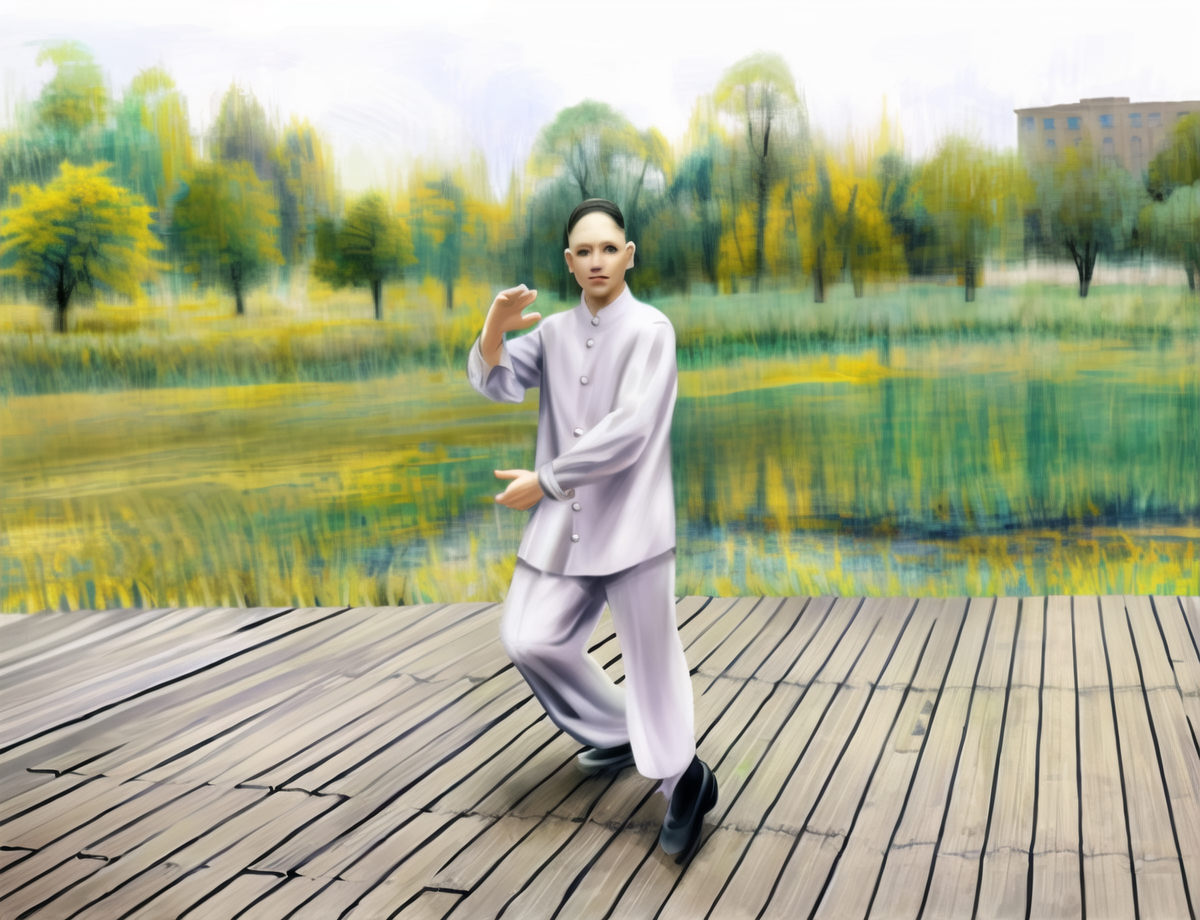
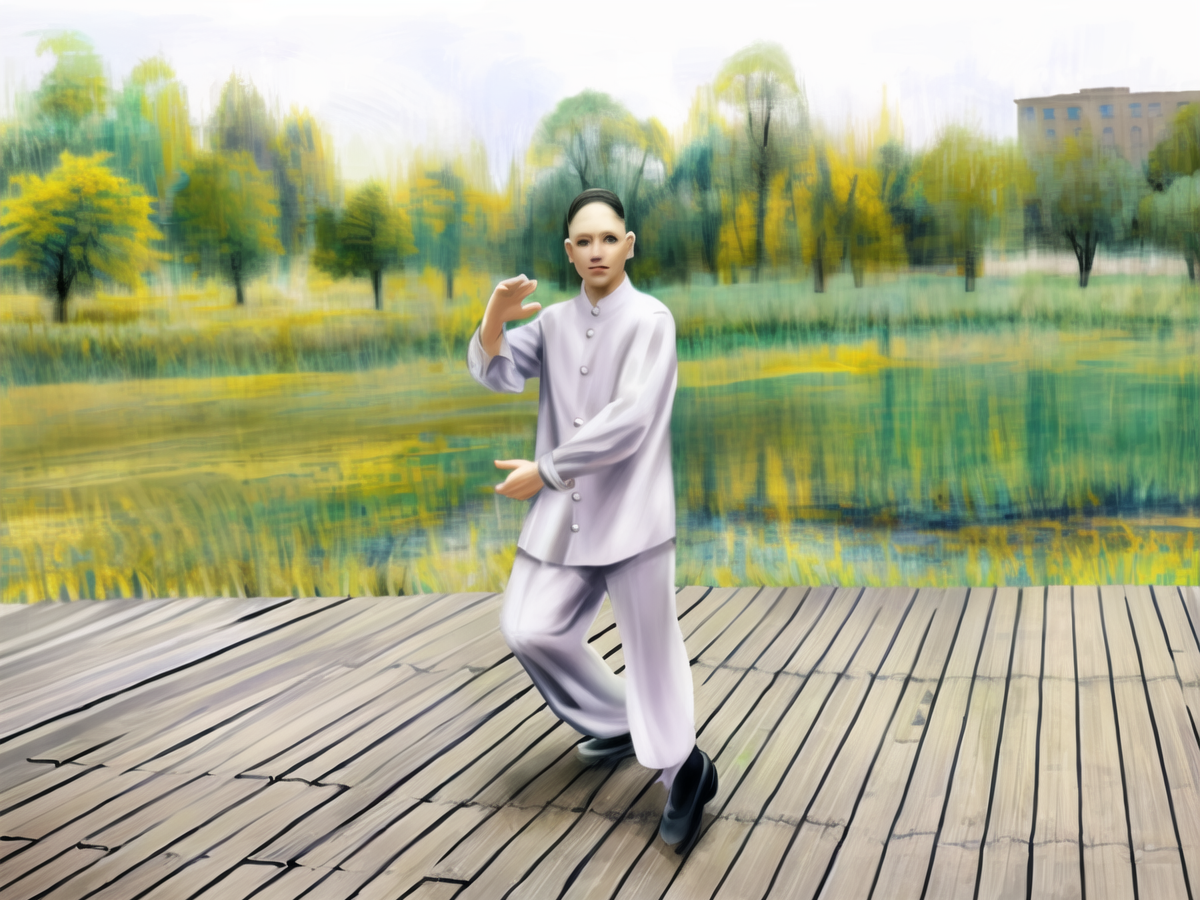
修改代码

diff --git a/index.html b/index.html
@@ -442,18 +442,18 @@
                 <img src="img/1.png" style="width: 100px; height: 100px;">
               </div>
               <div class="layui-col-md3">
-                <img src="img/cat1.jpg" style="width: 100%; height: 260px;">
+                <img src="img/白鹤亮翅_虚步分手.png" style="width: 100%; height: 260px;">
               </div>
               <div class="layui-col-md8">
                 <div class="layui-card" style="height: 260px;">
                   <div class="layui-card-body" style="padding: 30px;">
-                    <div style="height: 100px;"><h2>图中所示的动作是什么？上</h2></div>
+                    <div style="height: 100px;"><h2>图中练习者左脚稍向前移，前脚掌着地，成左虚步；两手随转体慢慢向右上左下分开，右手上提停于右额前，手心向左后方，左手按至左胯前，手心向下，指尖向前；上体转正，眼平视前方。<br>图中所示的动作是什么招式？</h2></div>
                     <div class="layui-form">
                       <div class="layui-form-item">
-                        <input type="radio" name="AAA" value="1" lay-filter="demo-radio-filter"  title="大威天龙">
-                        <input type="radio" name="AAA" value="0" lay-filter="demo-radio-filter" title="大威天龙"> 
-                        <input type="radio" name="AAA" value="0" lay-filter="demo-radio-filter" title="大威天龙"> 
-                        <input type="radio" name="AAA" value="0" lay-filter="demo-radio-filter" title="大威天龙"> 
+                        <input type="radio" name="AAA" value="0" lay-filter="demo-radio-filter"  title="起势">
+                        <input type="radio" name="AAA" value="1" lay-filter="demo-radio-filter" title="白鹤亮翅"> 
+                        <input type="radio" name="AAA" value="0" lay-filter="demo-radio-filter" title="高探马"> 
+                        <input type="radio" name="AAA" value="0" lay-filter="demo-radio-filter" title="单鞭"> 
                       </div>
                       <div class="layui-form-item">
                         <button class="layui-btn" lay-submit lay-filter="demo-radio-submit">确认</button>
@@ -469,18 +469,18 @@
                 <img src="img/2.png" style="width: 100px; height: 100px;">
               </div>
               <div class="layui-col-md3">
-                <img src="img/cat1.jpg" style="width: 100%; height: 260px;">
+                <img src="img/倒卷肱_退步错手.png" style="width: 100%; height: 260px;">
               </div>
               <div class="layui-col-md8">
                 <div class="layui-card" style="height: 260px;">
                   <div class="layui-card-body" style="padding: 30px;">
-                    <div style="height: 100px;"><h2>图中所示的动作是什么？上</h2></div>
+                    <div style="height: 100px;"><h2>图中练习者右脚向后撤一步，脚掌先着地，全脚踏实；同时左手经耳侧向前推出，右手收至左肋旁。<br>图中所示的动作是什么招式？</h2></div>
                     <div class="layui-form">
                       <div class="layui-form-item">
-                        <input type="radio" name="AAA" value="1" lay-filter="demo-radio-filter"  title="大威天龙">
-                        <input type="radio" name="AAA" value="0" lay-filter="demo-radio-filter" title="大威天龙"> 
-                        <input type="radio" name="AAA" value="0" lay-filter="demo-radio-filter" title="大威天龙"> 
-                        <input type="radio" name="AAA" value="0" lay-filter="demo-radio-filter" title="大威天龙"> 
+                        <input type="radio" name="AAA" value="0" lay-filter="demo-radio-filter"  title="手挥琵琶">
+                        <input type="radio" name="AAA" value="0" lay-filter="demo-radio-filter" title="白鹤亮翅"> 
+                        <input type="radio" name="AAA" value="0" lay-filter="demo-radio-filter" title="野马分鬃"> 
+                        <input type="radio" name="AAA" value="1" lay-filter="demo-radio-filter" title="倒卷肱"> 
                       </div>
                       <div class="layui-form-item">
                         <button class="layui-btn" lay-submit lay-filter="demo-radio-submit">确认</button>
@@ -496,18 +496,18 @@
                 <img src="img/3.png" style="width: 100px; height: 100px;">
               </div>
               <div class="layui-col-md3">
-                <img src="img/cat1.jpg" style="width: 100%; height: 260px;">
+                <img src="img/高探马_跟步松手.png" style="width: 100%; height: 260px;">
               </div>
               <div class="layui-col-md8">
                 <div class="layui-card" style="height: 260px;">
                   <div class="layui-card-body" style="padding: 30px;">
-                    <div style="height: 100px;"><h2>图中所示的动作是什么？上</h2></div>
+                    <div style="height: 100px;"><h2>图中练习者右脚向前跟半步，同时右手向前下方划弧至腹前，手心向上，左手下落至右腕内侧。<br>图中所示的动作是什么招式？</h2></div>
                     <div class="layui-form">
                       <div class="layui-form-item">
-                        <input type="radio" name="AAA" value="1" lay-filter="demo-radio-filter"  title="大威天龙">
-                        <input type="radio" name="AAA" value="0" lay-filter="demo-radio-filter" title="大威天龙"> 
-                        <input type="radio" name="AAA" value="0" lay-filter="demo-radio-filter" title="大威天龙"> 
-                        <input type="radio" name="AAA" value="0" lay-filter="demo-radio-filter" title="大威天龙"> 
+                        <input type="radio" name="AAA" value="1" lay-filter="demo-radio-filter"  title="高探马">
+                        <input type="radio" name="AAA" value="0" lay-filter="demo-radio-filter" title="左揽雀尾"> 
+                        <input type="radio" name="AAA" value="0" lay-filter="demo-radio-filter" title="云手"> 
+                        <input type="radio" name="AAA" value="0" lay-filter="demo-radio-filter" title="右揽雀尾"> 
                       </div>
                       <div class="layui-form-item">
                         <button class="layui-btn" lay-submit lay-filter="demo-radio-submit">确认</button>
@@ -523,18 +523,18 @@
                 <img src="img/4.png" style="width: 100px; height: 100px;">
               </div>
               <div class="layui-col-md3">
-                <img src="img/cat1.jpg" style="width: 100%; height: 260px;">
+                <img src="img/搂膝拗步_弓步搂推.png" style="width: 100%; height: 260px;">
               </div>
               <div class="layui-col-md8">
                 <div class="layui-card" style="height: 260px;">
                   <div class="layui-card-body" style="padding: 30px;">
-                    <div style="height: 100px;"><h2>图中所示的动作是什么？上</h2></div>
+                    <div style="height: 100px;"><h2>图中练习者左脚向前迈出一步，成左弓步；同时左手搂膝，右手屈肘推掌至右前上方。<br>图中所示的动作是什么招式？</h2></div>
                     <div class="layui-form">
                       <div class="layui-form-item">
-                        <input type="radio" name="AAA" value="1" lay-filter="demo-radio-filter"  title="大威天龙">
-                        <input type="radio" name="AAA" value="0" lay-filter="demo-radio-filter" title="大威天龙"> 
-                        <input type="radio" name="AAA" value="0" lay-filter="demo-radio-filter" title="大威天龙"> 
-                        <input type="radio" name="AAA" value="0" lay-filter="demo-radio-filter" title="大威天龙"> 
+                        <input type="radio" name="AAA" value="0" lay-filter="demo-radio-filter"  title="白鹤亮翅">
+                        <input type="radio" name="AAA" value="0" lay-filter="demo-radio-filter" title="起势"> 
+                        <input type="radio" name="AAA" value="1" lay-filter="demo-radio-filter" title="搂膝拗步"> 
+                        <input type="radio" name="AAA" value="0" lay-filter="demo-radio-filter" title="云手"> 
                       </div>
                       <div class="layui-form-item">
                         <button class="layui-btn" lay-submit lay-filter="demo-radio-submit">确认</button>
@@ -550,18 +550,18 @@
                 <img src="img/5.png" style="width: 100px; height: 100px;">
               </div>
               <div class="layui-col-md3">
-                <img src="img/cat1.jpg" style="width: 100%; height: 260px;">
+                <img src="img/起势_两臂前举.png" style="width: 100%; height: 260px;">
               </div>
               <div class="layui-col-md8">
                 <div class="layui-card" style="height: 260px;">
                   <div class="layui-card-body" style="padding: 30px;">
-                    <div style="height: 100px;"><h2>图中所示的动作是什么？上</h2></div>
+                    <div style="height: 100px;"><h2>图中练习者屈膝下蹲，同时两掌缓缓向前平举至与肩同高，掌心向下；上体保持正直，目视前方。<br>图中所示的动作是什么招式？</h2></div>
                     <div class="layui-form">
                       <div class="layui-form-item">
-                        <input type="radio" name="AAA" value="1" lay-filter="demo-radio-filter"  title="大威天龙">
-                        <input type="radio" name="AAA" value="0" lay-filter="demo-radio-filter" title="大威天龙"> 
-                        <input type="radio" name="AAA" value="0" lay-filter="demo-radio-filter" title="大威天龙"> 
-                        <input type="radio" name="AAA" value="0" lay-filter="demo-radio-filter" title="大威天龙"> 
+                        <input type="radio" name="AAA" value="1" lay-filter="demo-radio-filter"  title="起势">
+                        <input type="radio" name="AAA" value="0" lay-filter="demo-radio-filter" title="野马分鬃"> 
+                        <input type="radio" name="AAA" value="0" lay-filter="demo-radio-filter" title="单鞭"> 
+                        <input type="radio" name="AAA" value="0" lay-filter="demo-radio-filter" title="高探马"> 
                       </div>
                       <div class="layui-form-item">
                         <button class="layui-btn" lay-submit lay-filter="demo-radio-submit">确认</button>
@@ -577,18 +577,18 @@
                 <img src="img/6.png" style="width: 100px; height: 100px;">
               </div>
               <div class="layui-col-md3">
-                <img src="img/cat1.jpg" style="width: 100%; height: 260px;">
+                <img src="img/野马分鬃_弓步分手.png" style="width: 100%; height: 260px;">
               </div>
               <div class="layui-col-md8">
                 <div class="layui-card" style="height: 260px;">
                   <div class="layui-card-body" style="padding: 30px;">
-                    <div style="height: 100px;"><h2>图中所示的动作是什么？上</h2></div>
+                    <div style="height: 100px;"><h2>图中练习者同时两掌分别向右上、左下方划弧分开，右手高与眼平，手心斜向上，左手落于左胯旁，手心向下。<br>图中所示的动作是什么招式？</h2></div>
                     <div class="layui-form">
                       <div class="layui-form-item">
-                        <input type="radio" name="AAA" value="1" lay-filter="demo-radio-filter"  title="大威天龙">
-                        <input type="radio" name="AAA" value="0" lay-filter="demo-radio-filter" title="大威天龙"> 
-                        <input type="radio" name="AAA" value="0" lay-filter="demo-radio-filter" title="大威天龙"> 
-                        <input type="radio" name="AAA" value="0" lay-filter="demo-radio-filter" title="大威天龙"> 
+                        <input type="radio" name="AAA" value="0" lay-filter="demo-radio-filter"  title="倒卷肱">
+                        <input type="radio" name="AAA" value="0" lay-filter="demo-radio-filter" title="搂膝拗步"> 
+                        <input type="radio" name="AAA" value="1" lay-filter="demo-radio-filter" title="野马分鬃"> 
+                        <input type="radio" name="AAA" value="0" lay-filter="demo-radio-filter" title="云手"> 
                       </div>
                       <div class="layui-form-item">
                         <button class="layui-btn" lay-submit lay-filter="demo-radio-submit">确认</button>
@@ -604,18 +604,18 @@
                 <img src="img/7.png" style="width: 100px; height: 100px;">
               </div>
               <div class="layui-col-md3">
-                <img src="img/cat1.jpg" style="width: 100%; height: 260px;">
+                <img src="img/右揽雀尾_转体扣脚.png" style="width: 100%; height: 260px;">
               </div>
               <div class="layui-col-md8">
                 <div class="layui-card" style="height: 260px;">
                   <div class="layui-card-body" style="padding: 30px;">
-                    <div style="height: 100px;"><h2>图中所示的动作是什么？上</h2></div>
+                    <div style="height: 100px;"><h2>图中练习者双手分开，右手经头前划弧至右前方，掌心向下；左手经胸前划弧至腹前，掌心向上；同时重心后移，左脚尖翘起，成左虚步。<br>图中所示的动作是什么招式？</h2></div>
                     <div class="layui-form">
                       <div class="layui-form-item">
-                        <input type="radio" name="AAA" value="1" lay-filter="demo-radio-filter"  title="大威天龙">
-                        <input type="radio" name="AAA" value="0" lay-filter="demo-radio-filter" title="大威天龙"> 
-                        <input type="radio" name="AAA" value="0" lay-filter="demo-radio-filter" title="大威天龙"> 
-                        <input type="radio" name="AAA" value="0" lay-filter="demo-radio-filter" title="大威天龙"> 
+                        <input type="radio" name="AAA" value="0" lay-filter="demo-radio-filter"  title="野马分鬃">
+                        <input type="radio" name="AAA" value="0" lay-filter="demo-radio-filter" title="倒卷肱"> 
+                        <input type="radio" name="AAA" value="0" lay-filter="demo-radio-filter" title="单鞭"> 
+                        <input type="radio" name="AAA" value="1" lay-filter="demo-radio-filter" title="右揽雀尾"> 
                       </div>
                       <div class="layui-form-item">
                         <button class="layui-btn" lay-submit lay-filter="demo-radio-submit">确认</button>
@@ -631,18 +631,18 @@
                 <img src="img/8.png" style="width: 100px; height: 100px;">
               </div>
               <div class="layui-col-md3">
-                <img src="img/cat1.jpg" style="width: 100%; height: 260px;">
+                <img src="img/云手_转体云手.png" style="width: 100%; height: 260px;">
               </div>
               <div class="layui-col-md8">
                 <div class="layui-card" style="height: 260px;">
                   <div class="layui-card-body" style="padding: 30px;">
-                    <div style="height: 100px;"><h2>图中所示的动作是什么？上</h2></div>
+                    <div style="height: 100px;"><h2>图中练习者身体右转，右手向上、向右划弧至右上方，左手向右划弧至胸前。<br>图中所示的动作是什么招式？</h2></div>
                     <div class="layui-form">
                       <div class="layui-form-item">
-                        <input type="radio" name="AAA" value="1" lay-filter="demo-radio-filter"  title="大威天龙">
-                        <input type="radio" name="AAA" value="0" lay-filter="demo-radio-filter" title="大威天龙"> 
-                        <input type="radio" name="AAA" value="0" lay-filter="demo-radio-filter" title="大威天龙"> 
-                        <input type="radio" name="AAA" value="0" lay-filter="demo-radio-filter" title="大威天龙"> 
+                        <input type="radio" name="AAA" value="0" lay-filter="demo-radio-filter"  title="单鞭  ">
+                        <input type="radio" name="AAA" value="1" lay-filter="demo-radio-filter" title="云手"> 
+                        <input type="radio" name="AAA" value="0" lay-filter="demo-radio-filter" title="手挥琵琶"> 
+                        <input type="radio" name="AAA" value="0" lay-filter="demo-radio-filter" title="左揽雀尾"> 
                       </div>
                       <div class="layui-form-item">
                         <button class="layui-btn" lay-submit lay-filter="demo-radio-submit">确认</button>
